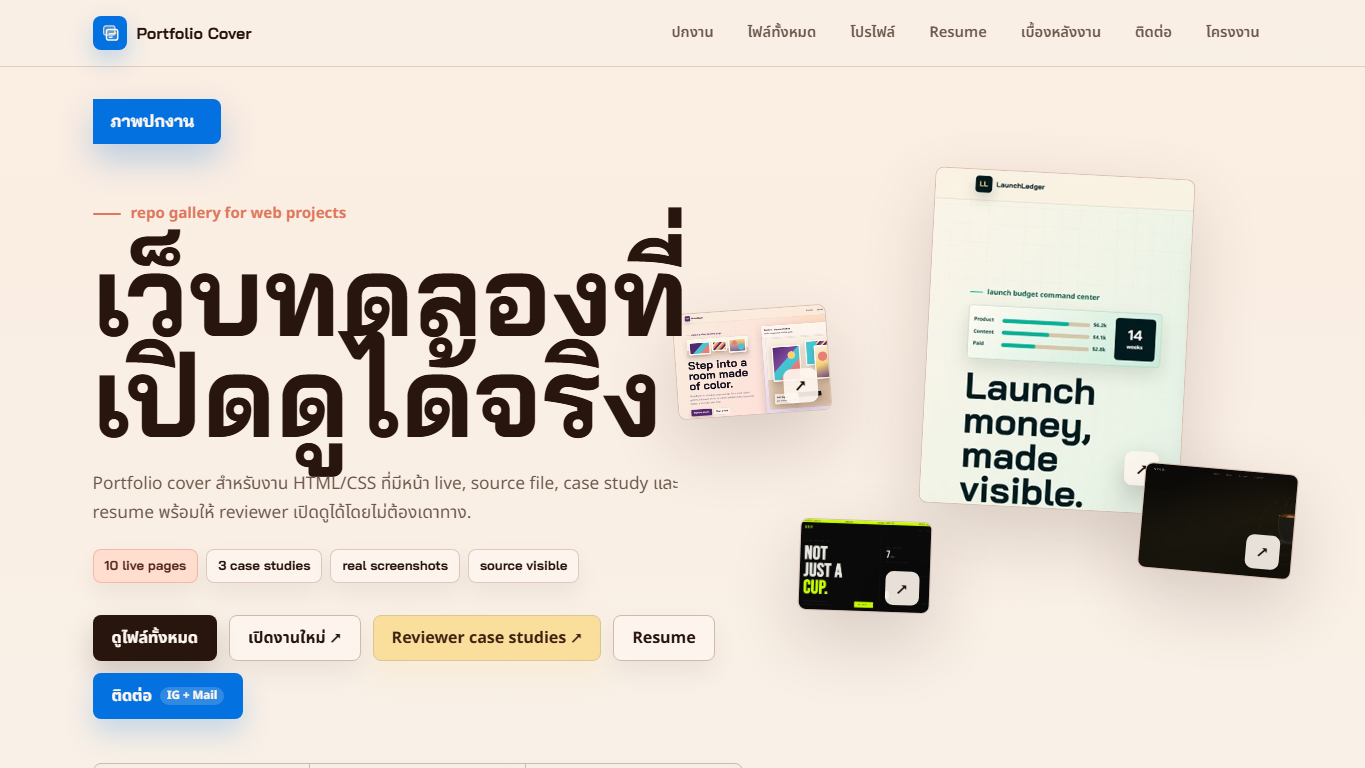
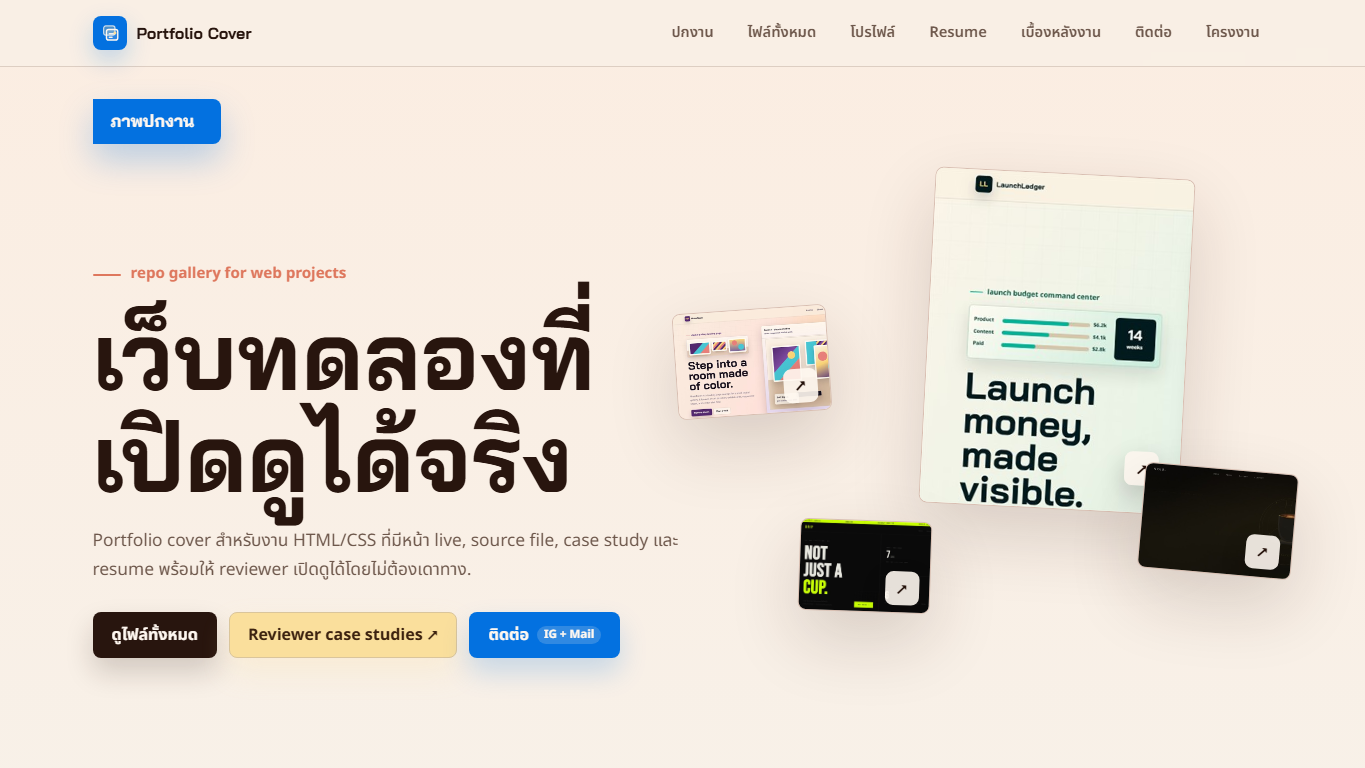
Simplify homepage hero copy

Changed region(s): [[0.0615, 0.25, 0.5231, 0.75], [0.0615, 0.7812, 0.5231, 0.9688]]

diff --git a/index.html b/index.html
@@ -13,8 +13,8 @@
   <meta property="og:title" content="Phakin Chawanpunya | Frontend Portfolio" />
   <meta property="og:description" content="Frontend and landing page practice portfolio by Phakin Chawanpunya, featuring ten static HTML projects, full case-study notes, live previews, and source links." />
   <meta property="og:url" content="https://phakinza007.github.io/my-portfolio/" />
-  <meta property="og:image" content="https://phakinza007.github.io/my-portfolio/assets/social-preview.png?v=hero-clear" />
-  <meta property="og:image:secure_url" content="https://phakinza007.github.io/my-portfolio/assets/social-preview.png?v=hero-clear" />
+  <meta property="og:image" content="https://phakinza007.github.io/my-portfolio/assets/social-preview.png?v=hero-type-clean" />
+  <meta property="og:image:secure_url" content="https://phakinza007.github.io/my-portfolio/assets/social-preview.png?v=hero-type-clean" />
   <meta property="og:image:type" content="image/png" />
   <meta property="og:image:width" content="1200" />
   <meta property="og:image:height" content="630" />
@@ -23,7 +23,7 @@
   <meta name="twitter:card" content="summary_large_image" />
   <meta name="twitter:title" content="Phakin Chawanpunya | Frontend Portfolio" />
   <meta name="twitter:description" content="Frontend and landing page practice portfolio by Phakin Chawanpunya, featuring ten static HTML projects, full case-study notes, live previews, and source links." />
-  <meta name="twitter:image" content="https://phakinza007.github.io/my-portfolio/assets/social-preview.png?v=hero-clear" />
+  <meta name="twitter:image" content="https://phakinza007.github.io/my-portfolio/assets/social-preview.png?v=hero-type-clean" />
   <meta name="twitter:image:alt" content="Screenshot of Phakin Chawanpunya frontend portfolio gallery." />
   <title>Phakin Chawanpunya | Frontend Portfolio</title>
   <link rel="icon" type="image/svg+xml" href="assets/favicon.svg" />
@@ -588,11 +588,11 @@
 
     h1 {
       font-family: "Bai Jamjuree", sans-serif;
-      font-size: clamp(4.2rem, 9vw, 7rem);
-      line-height: 0.9;
+      font-size: clamp(3.5rem, 7.2vw, 5.9rem);
+      line-height: 1.08;
       font-weight: 700;
-      max-width: 10.4ch;
-      margin-bottom: 24px;
+      max-width: 11.5ch;
+      margin-bottom: 18px;
       text-wrap: balance;
     }
 
@@ -604,40 +604,12 @@
       word-break: break-word;
     }
 
-    .hero-proofline {
-      display: flex;
-      flex-wrap: wrap;
-      gap: 8px;
-      margin-top: 22px;
-    }
-
-    .hero-proof {
-      min-height: 34px;
-      display: inline-flex;
-      align-items: center;
-      border-radius: 8px;
-      padding: 0 11px;
-      border: 1px solid oklch(80% 0.028 56 / 0.72);
-      background: oklch(98% 0.012 65 / 0.72);
-      color: var(--ink);
-      font-family: "Bai Jamjuree", sans-serif;
-      font-size: 0.82rem;
-      font-weight: 800;
-      box-shadow: 0 10px 24px oklch(24% 0.04 42 / 0.06);
-    }
-
-    .hero-proof.is-hot {
-      border-color: oklch(68% 0.135 35 / 0.36);
-      background: oklch(91% 0.056 38 / 0.72);
-      color: oklch(34% 0.066 34);
-    }
-
     .hero-actions {
       display: flex;
       align-items: center;
       flex-wrap: wrap;
       gap: 12px;
-      margin-top: 32px;
+      margin-top: 28px;
     }
 
     .button {
@@ -703,41 +675,6 @@
       border-color: oklch(83% 0.06 84);
       background: var(--butter);
       box-shadow: 0 14px 28px oklch(91% 0.09 88 / 0.22);
-    }
-
-    .repo-strip {
-      position: relative;
-      z-index: 7;
-      width: min(760px, 100%);
-      display: grid;
-      grid-template-columns: repeat(3, 1fr);
-      gap: 1px;
-      margin-top: 44px;
-      border: 1px solid var(--line);
-      border-radius: 8px;
-      overflow: hidden;
-      background: var(--line);
-    }
-
-    .repo-item {
-      min-height: 82px;
-      display: grid;
-      align-content: center;
-      gap: 2px;
-      padding: 14px 18px;
-      background: oklch(98% 0.012 65 / 0.86);
-    }
-
-    .repo-item strong {
-      font-family: "Bai Jamjuree", sans-serif;
-      font-size: 1.55rem;
-      line-height: 1;
-    }
-
-    .repo-item span {
-      color: var(--muted);
-      font-size: 0.86rem;
-      font-weight: 600;
     }
 
     .section {
@@ -2008,10 +1945,6 @@
     }
 
     @media (max-width: 1080px) {
-      h1 {
-        font-size: 4.25rem;
-      }
-
       .hero-art {
         opacity: 0.58;
         right: -210px;
@@ -2141,10 +2074,9 @@
 
       h1 {
         max-width: 10ch;
-        font-size: 3.18rem;
+        font-size: 3rem;
       }
 
-      .repo-strip,
       .section-heading,
       .about-metrics,
       .steps {
@@ -2248,7 +2180,7 @@
       }
 
       h1 {
-        font-size: 2.55rem;
+        font-size: 2.35rem;
       }
 
       .hero-copy p,
@@ -2322,32 +2254,10 @@
             Portfolio cover สำหรับงาน HTML/CSS ที่มีหน้า live, source file,
             case study และ resume พร้อมให้ reviewer เปิดดูได้โดยไม่ต้องเดาทาง.
           </p>
-          <div class="hero-proofline" aria-label="portfolio proof points">
-            <span class="hero-proof is-hot">10 live pages</span>
-            <span class="hero-proof">3 case studies</span>
-            <span class="hero-proof">real screenshots</span>
-            <span class="hero-proof">source visible</span>
-          </div>
           <div class="hero-actions" aria-label="ลิงก์สำคัญ">
             <a class="button primary" href="#works">ดูไฟล์ทั้งหมด</a>
-            <a class="button secondary" href="LaunchLedger.html">เปิดงานใหม่ ↗</a>
             <a class="button case-study" href="#case-studies">Reviewer case studies ↗</a>
-            <a class="button secondary" href="resume.html">Resume</a>
             <a class="button contact" href="#contact" aria-label="ไปยังลิงก์ Instagram และ email">ติดต่อ</a>
-          </div>
-          <div class="repo-strip" aria-label="ข้อมูล repo">
-            <div class="repo-item">
-              <strong>10</strong>
-              <span>live project pages</span>
-            </div>
-            <div class="repo-item">
-              <strong>3</strong>
-              <span>full case studies</span>
-            </div>
-            <div class="repo-item">
-              <strong>PDF</strong>
-              <span>resume ready</span>
-            </div>
           </div>
         </div>
       </div>
@@ -2802,7 +2712,6 @@
                 <p>Package the work with screenshots, source links, case studies, and contact paths.</p>
               </div>
               <div class="skill-pills">
-                <span class="skill-pill">Real screenshots</span>
                 <span class="skill-pill">GitHub Pages</span>
                 <span class="skill-pill alt">Source links</span>
                 <span class="skill-pill alt">Accessible focus</span>

diff --git a/404.html b/404.html
@@ -13,8 +13,8 @@
   <meta property="og:title" content="Page Not Found | Phakin Chawanpunya Portfolio" />
   <meta property="og:description" content="The requested portfolio page could not be found. Return to Phakin Chawanpunya frontend portfolio and open the live project gallery." />
   <meta property="og:url" content="https://phakinza007.github.io/my-portfolio/404.html" />
-  <meta property="og:image" content="https://phakinza007.github.io/my-portfolio/assets/social-preview.png?v=hero-clear" />
-  <meta property="og:image:secure_url" content="https://phakinza007.github.io/my-portfolio/assets/social-preview.png?v=hero-clear" />
+  <meta property="og:image" content="https://phakinza007.github.io/my-portfolio/assets/social-preview.png?v=hero-type-clean" />
+  <meta property="og:image:secure_url" content="https://phakinza007.github.io/my-portfolio/assets/social-preview.png?v=hero-type-clean" />
   <meta property="og:image:type" content="image/png" />
   <meta property="og:image:width" content="1200" />
   <meta property="og:image:height" content="630" />
@@ -23,7 +23,7 @@
   <meta name="twitter:card" content="summary_large_image" />
   <meta name="twitter:title" content="Page Not Found | Phakin Chawanpunya Portfolio" />
   <meta name="twitter:description" content="The requested portfolio page could not be found. Return to Phakin Chawanpunya frontend portfolio and open the live project gallery." />
-  <meta name="twitter:image" content="https://phakinza007.github.io/my-portfolio/assets/social-preview.png?v=hero-clear" />
+  <meta name="twitter:image" content="https://phakinza007.github.io/my-portfolio/assets/social-preview.png?v=hero-type-clean" />
   <meta name="twitter:image:alt" content="Screenshot of Phakin Chawanpunya frontend portfolio gallery." />
   <title>Page Not Found | Phakin Chawanpunya Portfolio</title>
   <link rel="icon" type="image/svg+xml" href="assets/favicon.svg" />

diff --git a/resume.html b/resume.html
@@ -10,12 +10,12 @@
   <meta property="og:title" content="Resume | Phakin Chawanpunya" />
   <meta property="og:description" content="Frontend practice resume with skills, tools, selected projects, contact links, and downloadable PDF." />
   <meta property="og:url" content="https://phakinza007.github.io/my-portfolio/resume.html" />
-  <meta property="og:image" content="https://phakinza007.github.io/my-portfolio/assets/social-preview.png?v=hero-clear" />
+  <meta property="og:image" content="https://phakinza007.github.io/my-portfolio/assets/social-preview.png?v=hero-type-clean" />
   <meta property="og:image:alt" content="Portfolio cover screenshot for Phakin Chawanpunya." />
   <meta name="twitter:card" content="summary_large_image" />
   <meta name="twitter:title" content="Resume | Phakin Chawanpunya" />
   <meta name="twitter:description" content="Frontend practice resume with selected projects, skills, tools, and contact links." />
-  <meta name="twitter:image" content="https://phakinza007.github.io/my-portfolio/assets/social-preview.png?v=hero-clear" />
+  <meta name="twitter:image" content="https://phakinza007.github.io/my-portfolio/assets/social-preview.png?v=hero-type-clean" />
   <title>Resume | Phakin Chawanpunya</title>
   <link rel="preconnect" href="https://fonts.googleapis.com">
   <link rel="preconnect" href="https://fonts.gstatic.com" crossorigin>
@@ -87,7 +87,7 @@
 
         <aside class="proof-panel" aria-label="Resume quick facts">
           <div class="proof-image">
-            <img src="assets/thumbs/portfolio-cover.jpg?v=hero-clear" alt="Portfolio homepage screenshot with project cards and case study links." />
+            <img src="assets/thumbs/portfolio-cover.jpg?v=hero-type-clean" alt="Portfolio homepage screenshot with project cards and case study links." />
           </div>
           <div class="proof-list">
             <div class="proof-item">

diff --git a/DESIGN.md b/DESIGN.md
@@ -166,7 +166,7 @@ Motion should use `cubic-bezier(0.16, 1, 0.3, 1)` and short 180-260ms transition
 
 **Buttons:** Primary buttons use dark ink or cobalt with high contrast. Secondary buttons use a light surface, warm border, and the same 8px radius. Buttons should have clear hover lift and visible focus outlines.
 
-**Hero Actions:** The hero should offer a fast scan path: all projects, newest project, featured case study, resume, and contact. Keep labels direct, and point the featured case study to the strongest reviewer-ready project.
+**Hero Actions:** The hero should stay compact with only the main scan path: all projects, featured case studies, and contact. Keep resume and individual project links in the nav, project grid, and about sections rather than crowding the hero.
 
 **Project Cards:** Each card pairs a screenshot with title, short description, tags, and split actions for `View live` and `Source file`. Cards use 8px radius, warm borders, light surfaces, and subtle hover lift.
 